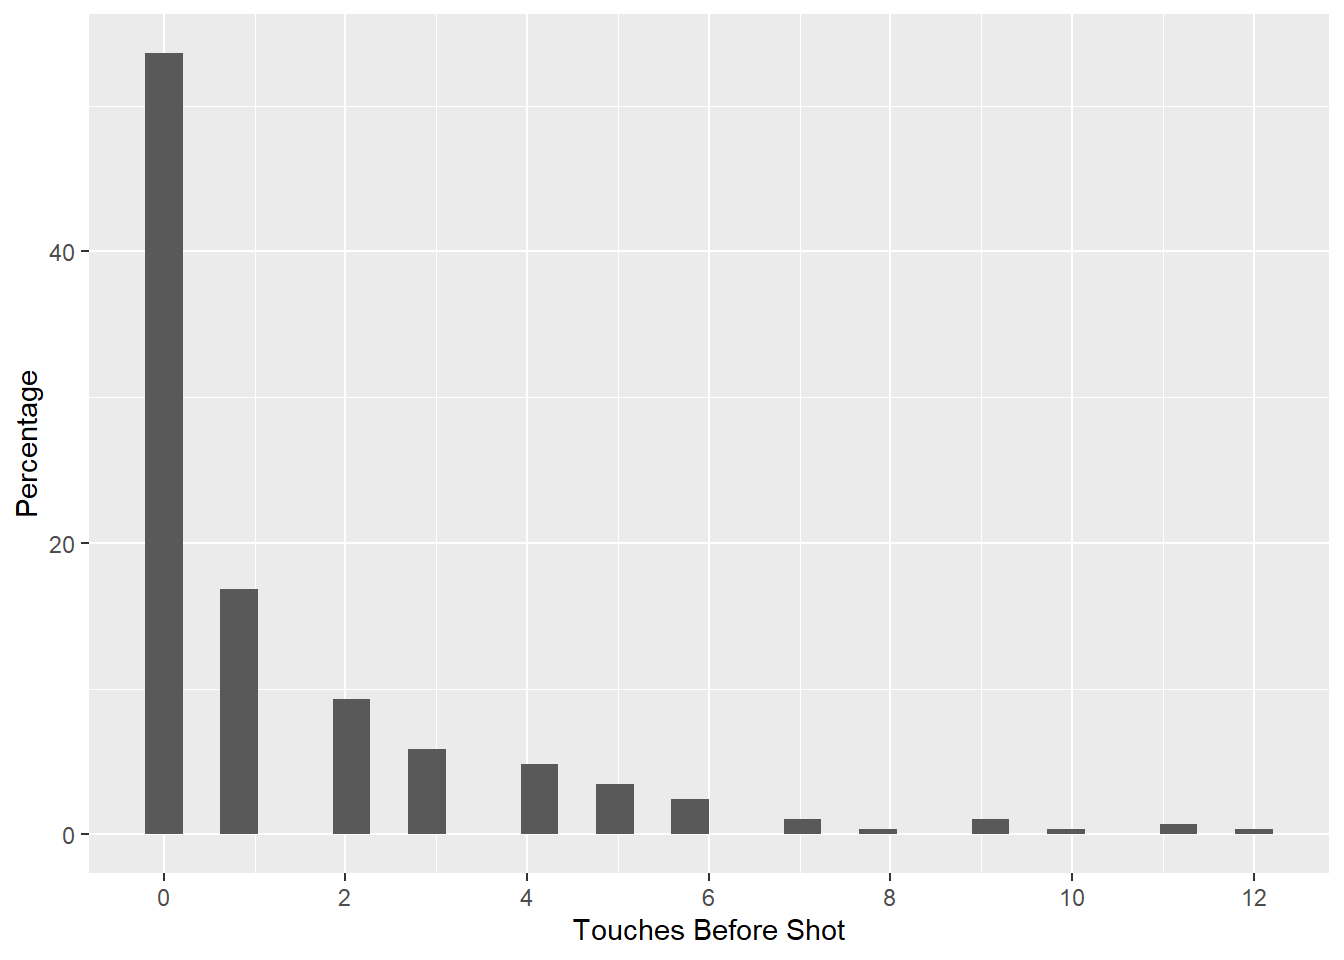
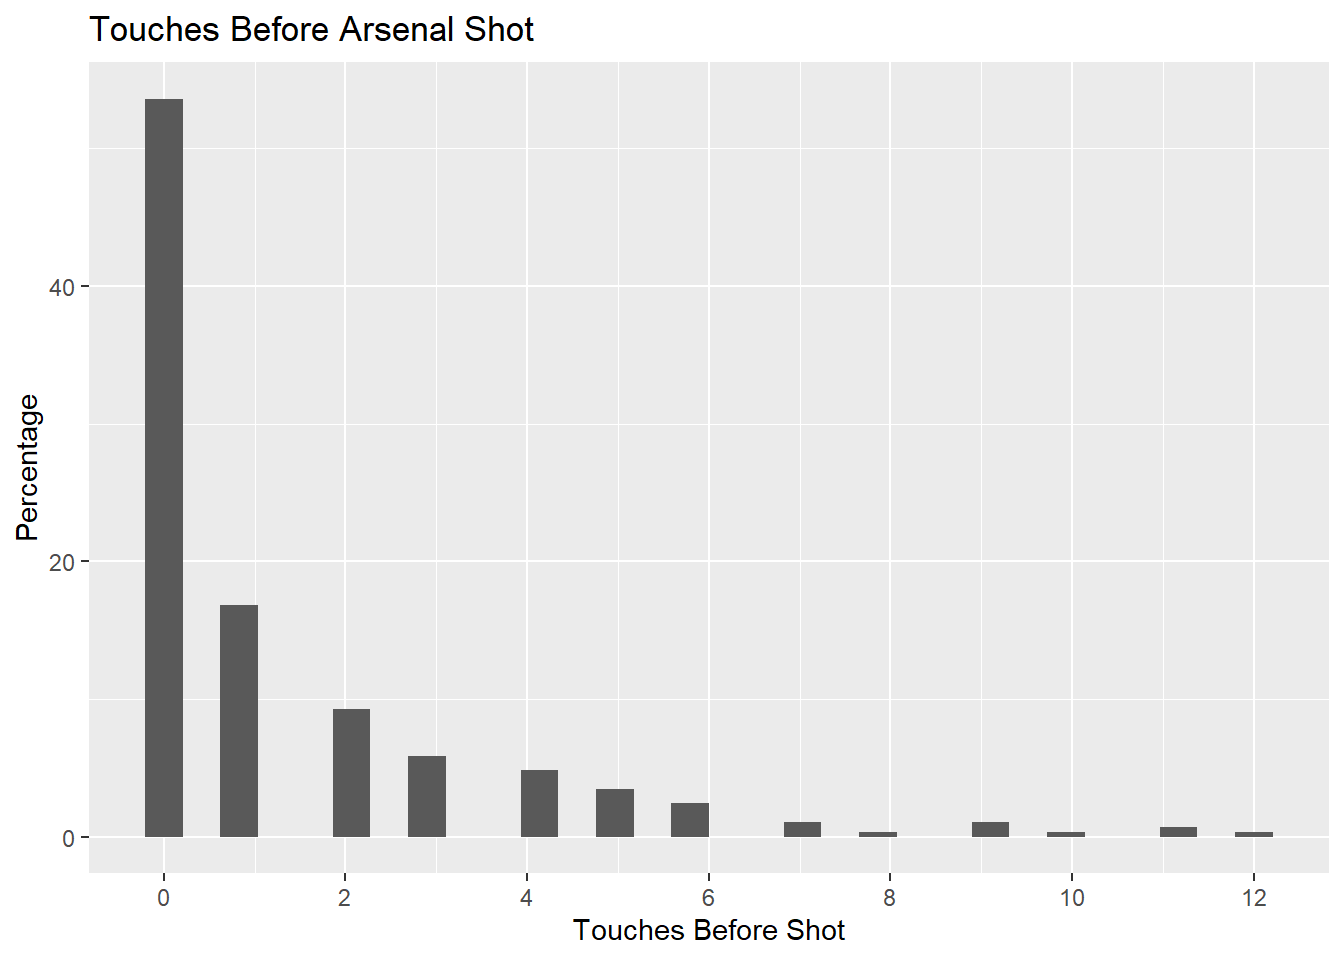
Changed qmd with markdown changes

diff --git a/index.html b/index.html
@@ -152,12 +152,18 @@ ul.task-list li input[type="checkbox"] {
 </div>
 </div>
 </div>
+<p>Now that Arsenal are favorites, Premier League teams “respect” them more, meaning they give Arsenal more space to play out the back and advance towards the opposing teams’ box. This usually means they sit deeper and give Arsenal more space in their own defensive third, allowing them to build out from the back with relative ease. Arsenal’s technical quality and passing precision make them very effective at progressing the ball through these early phases.</p>
+<p>However, as soon as Arsenal approaches the final third, all that space disappears. Opponents put more defenders between the ball and the goal, making it harder for Arsenal to pass and create more threatening shots.</p>
+<p>In contrast, in previous seasons when Arsenal weren’t seen as serious title contenders, teams were more willing to press higher and give up more space behind them. This gave Arsenal more room in attacking areas closer to the opponent goal, enabling quicker transitions and more free-flowing soccer in the final third.</p>
+<p>As seen from the histogram, teams mostly have at least 5 players excluding the goalkeeper defending the goal in their own box, whenever Arsenal take a shot.</p>
 <div class="quarto-figure quarto-figure-center">
 <figure class="figure">
 <p><img src="img/brentford-defending.png" class="img-fluid figure-img" style="width:70.0%"></p>
 <figcaption>Defending example</figcaption>
 </figure>
 </div>
+<p>As one can see in the photo above from Arsenal vs Brentford in January. With Brentford having all their players behind the ball, it’s very difficult for Arsenal to have a shot that’s very likely of scoring. This was a common theme in Arsenal games, and one that proved very difficult for Arsenal.</p>
+<p>As a result teams always get pressure on the player shooting which puts them off.</p>
 <div class="cell">
 <div class="cell-output cell-output-stdout">
 <pre><code>
@@ -173,6 +179,8 @@ sample estimates:
         0.2401887         0.1446196 </code></pre>
 </div>
 </div>
+<p>Shots taken under defensive pressure had an average xG of 0.14, while shots without pressure had an average xG of 0.24. This difference is large enough that it’s very unlikely to be due to chance, showing that pressure greatly reduces the quality of Arsenal’s chances.</p>
+<p>To find what areas Arsenal attack in better than others in possession, I divided the area into 5 spaces: the left halfspace, right halfspace, middle, left, and right. Halfspaces are channels located between the central lanes and the wide areas of the pitch. I also looked at shots from set pieces, which are restarts that the referee awards, such as corner kicks and free kicks.</p>
 <div class="cell">
 <div class="cell-output cell-output-stdout">
 <pre><code># A tibble: 6 × 3
@@ -186,11 +194,15 @@ sample estimates:
 6 set piece          60 0.221 </code></pre>
 </div>
 </div>
+<p>From the table, we see that Arsenal are mostly reliant on attacking from the wings and right halfspace, with less emphasis on the left halfspace and middle. This makes sense, our most natural attacking players such as Saka, Odegaard, Martinelli, and Trossard take these spaces up so they get the most touches and influence in attack. Yet we still struggle to find that final shot that leads to a goal.</p>
+<p>This season, Arsenal were known to heavily rely on set pieces in tight games.</p>
 <div class="cell">
 <div class="cell-output cell-output-stdout">
 <pre><code>[1] 22.22222</code></pre>
 </div>
 </div>
+<p>In fact 22.2% of Arsenal’s goals were from set pieces. As a team that is supposed to dominate games, this is very concerning because it highlights how uninspired our creation was from open play relative to prior seasons. The numbers and eye test prove this.</p>
+<p>From a fan’s perspective, I think a lot of our lack of creation stems from the fact that we don’t have world class playmakers on this team. A lot of our players depend on the system, rather than making big plays by themselves. To gain insight into this, I checked how often our players dribble and where.</p>
 <div class="cell">
 <div class="cell-output-display">
 <div>
@@ -200,6 +212,7 @@ sample estimates:
 </div>
 </div>
 </div>
+<p>For starters, majority of our shots were first time shots, meaning they didn’t have to touch the ball before shooting, or they only took one touch to control it. What this shows is that our players very rarely created shots for themselves. They had to rely on their movement and passing to score. Obviously this is difficult to maintain at a high level, but still when teams suffocate the passing lanes, dribbling and beating your defender with skills is needed, but our team can’t and doesn’t do that.</p>
 <div class="cell">
 <div class="cell-output cell-output-stdout">
 <pre><code># A tibble: 1 × 3
@@ -214,6 +227,7 @@ sample estimates:
 1          63                           15      0.238</code></pre>
 </div>
 </div>
+<p>22% of our goals and shots came after an Arsenal player beats a defender on the dribble. For us to succeed offensively and score more goals, I’d want to see this number go up next season. Hopefully, in the transfer window Arsenal can buy a player with this ability.</p>
 <div class="cell">
 <div class="cell-output cell-output-stdout">
 <pre><code># A tibble: 12 × 3
@@ -242,6 +256,7 @@ sample estimates:
 </div>
 </div>
 </div>
+<p>I observed that the right side tends to produce higher upper-end xG chances, though this difference wasn’t statistically significant. This may suggest potential but inconsistent quality from the right.</p>
 <div class="cell">
 <div class="cell-output cell-output-stdout">
 <pre><code># A tibble: 7 × 6
@@ -256,7 +271,11 @@ sample estimates:
 7     8  1           0.02            0.02          2            4</code></pre>
 </div>
 </div>
+<p>To evaluate whether Arsenal creates more dangerous chances when attackers beat defenders on the dribble, I compared xg in situations where a defender was beaten versus when they were not. In zone 1, you can see that the p value is almost significant. In the small sample size that we have, when our players beat their defender and pass into the box, it’s almost always a free goal. With better wingers we can see more of this. An example is in the Arsenal vs Ipswich game in Gameweek 18.</p>
 <p><a href="https://youtu.be/62DBSHviDYY?si=A_4GZ9vwrz50L_ms&amp;t=88">Arsenal vs Ipswich GW18 — Saka dribble in zone 1</a></p>
+<p>In the few instances that aren’t shown in this dataset due to the crosses not being completed, that’s because our strikers didn’t make contact with the ball, but with the addition of Viktor Gyokeres, a more pure striker and goalscorer, he’ll be scoring these more often and that’s how we can get to use him more.</p>
+<p>For the rest of the shooting zones, there are other factors to account for such as angle and how many defenders are between the ball and the goal, so the xg is more random.</p>
+<p>With this issue of struggling to score against low blocks, the ability to capitalize on transition goals where defenses are caught out is vital.</p>
 <div class="cell">
 <div class="cell-output cell-output-stdout">
 <pre><code># A tibble: 1 × 5
@@ -265,7 +284,11 @@ sample estimates:
 1    36      0.180                  6.09        11      0.306</code></pre>
 </div>
 </div>
+<p>Some fans believe that Arsenal were too slow in transition compared to seasons prior. I took a look at all shots from transition. The average xg from transitions is higher than the total average, but the time to shoot is pretty long, which makes it easier for defenders to get back and protect their goal. Overall, our transition lacked creativity, decision making, and efficiency.</p>
 <p><a href="https://youtu.be/siDxiv91yTI?si=EMSB9jd4TNkVSauI">Arsenal transition example — Martinelli GW decision making</a></p>
+<p>As you can see there are many issues in this shot. Martinelli makes a really bad decision to shoot with the defender recovering to block the goal, but also Martinelli has no options that he can pass to for a better shot. It all looks very bland and unexciting. This was a common theme me and many other fans noticed from watching. We scored 30% of our transition goals, but it could’ve been better.</p>
+<p>After this season, many fans believed the main target should be a Left Wing, and after playing around with the data, I believe the data supports this. The statistics major in me is troubled because not everything was statistically significant, however, the football fan, watcher, and even player part of me knows the saying that “Football is a game of small margins”.</p>
+<p>The player that the media is saying that Arsenal is monitoring is Eberechi Eze. Eze is a talented playmaker, dribbler, and finisher. The main concern is that he’s primarily a Center Attacking Mid and not a touchline Winger.</p>
 <div class="cell">
 <div class="cell-output cell-output-stdout">
 <pre><code># A tibble: 7 × 3
@@ -308,14 +331,21 @@ sample estimates:
 <figcaption>Leandro Trossard 2024/2025 Heatmap</figcaption>
 </figure>
 </div>
+<p>From the heatmaps we can see that all three players have a lot of touches on the touchline, so although Eze operated more frequently in the middle of the field last season, he has enough experience that could be useful for Arsenal on the left. That season, Eze also had a 52% dribble success rate which is higher than Martinelli(35%) and Trossard(51%), while also scoring more goals (11) than Martinelli and Trossard.</p>
 <div class="quarto-figure quarto-figure-center">
 <figure class="figure">
 <p><img src="img/eberechi-eze-shotmap.png" class="img-fluid figure-img" style="width:70.0%"></p>
 <figcaption>Eberechi Eze 2024/2025 Shotmap</figcaption>
 </figure>
 </div>
+<p>Knowing Eze as a player and seeing both his heatmap and shotmap, I would come to the conclusion that he simply “generates football”. What that means in the football community is that no matter what position on the field he’s playing, I would expect him to make an impact. The reason I say this is that he can shoot, dribble, and pass in the middle and left part of the field.</p>
+<p>After being such a robotic and bland team in offense, this is exactly what I think Arsenal need to take a big step towards winning a trophy. ```</p>
 <p><a href="https://youtu.be/ocwPznvEyqk?si=akr-F37EoKj9Nomt&amp;t=423">Eze left-side cross</a></p>
 <p><a href="https://youtu.be/ocwPznvEyqk?si=ZGSb3zYD68OXvGRn&amp;t=510">Eze driving inside and creating space</a></p>
+<p>Outside of the numbers and maps, I provided two clips that showcase Eze’s ability to play on the left. In the first link, after being trapped on the touchline, he effortlessly plays a pinpoint cross that his teammate is easily able to tap into the goal. So, he definitely has the technical ability to cross on his left foot that Martinelli and Trossard struggled with.</p>
+<p>In the second clip, he receives the ball all the way on the left in midfield, and drives into the middle and makes the defenders all attract towards him in anticipation of him shooting, but he plays a pass to the right for his teammate to be wide open to shoot.</p>
+<p>This is an example of Eze having so much gravity as a dribbler and playmaker, meaning that if he can’t open up space for himself, then he’ll definitely open up space for another teammate. This relates back to what I was saying about lightening the load off the right off our star player Saka.</p>
+<p>For me and other fans, this signing is a no brainer.</p>
 </section>
 
 </main>